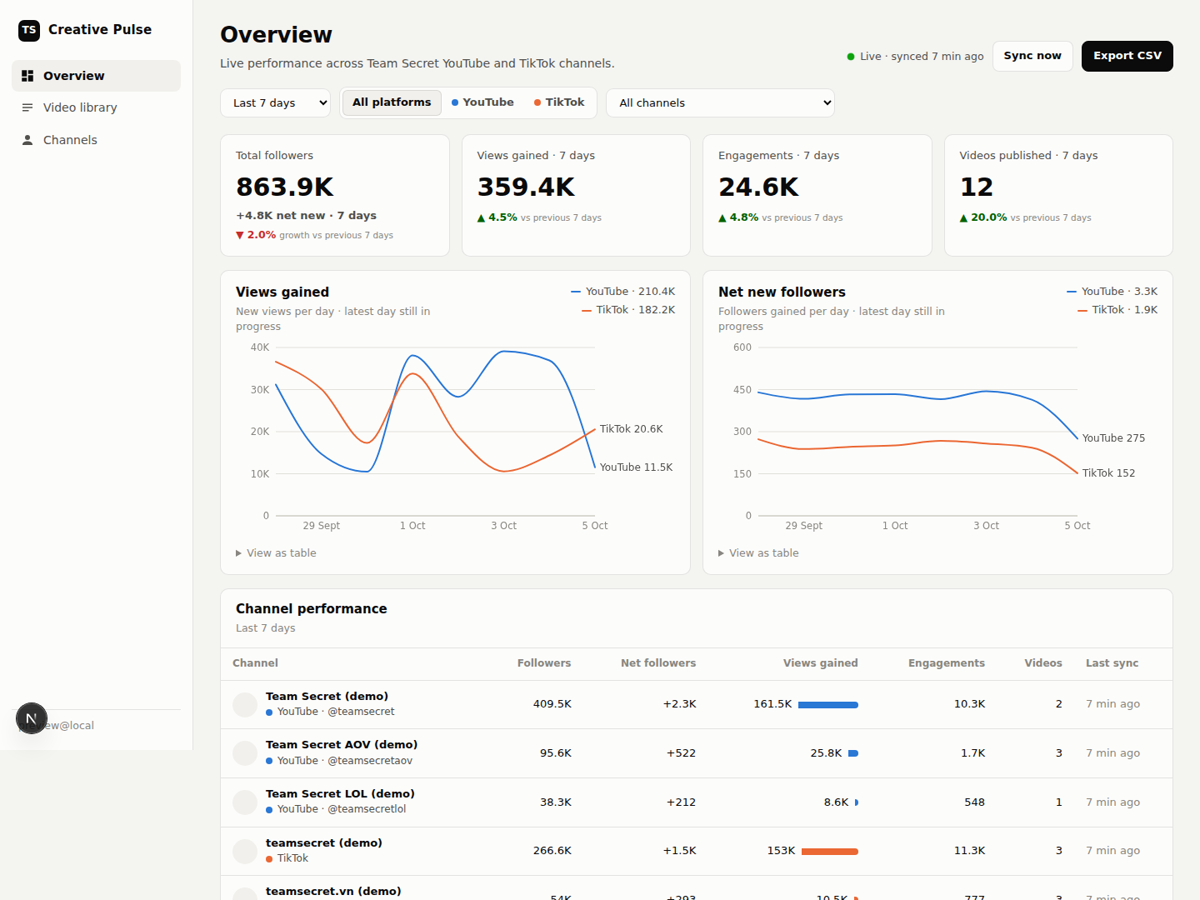
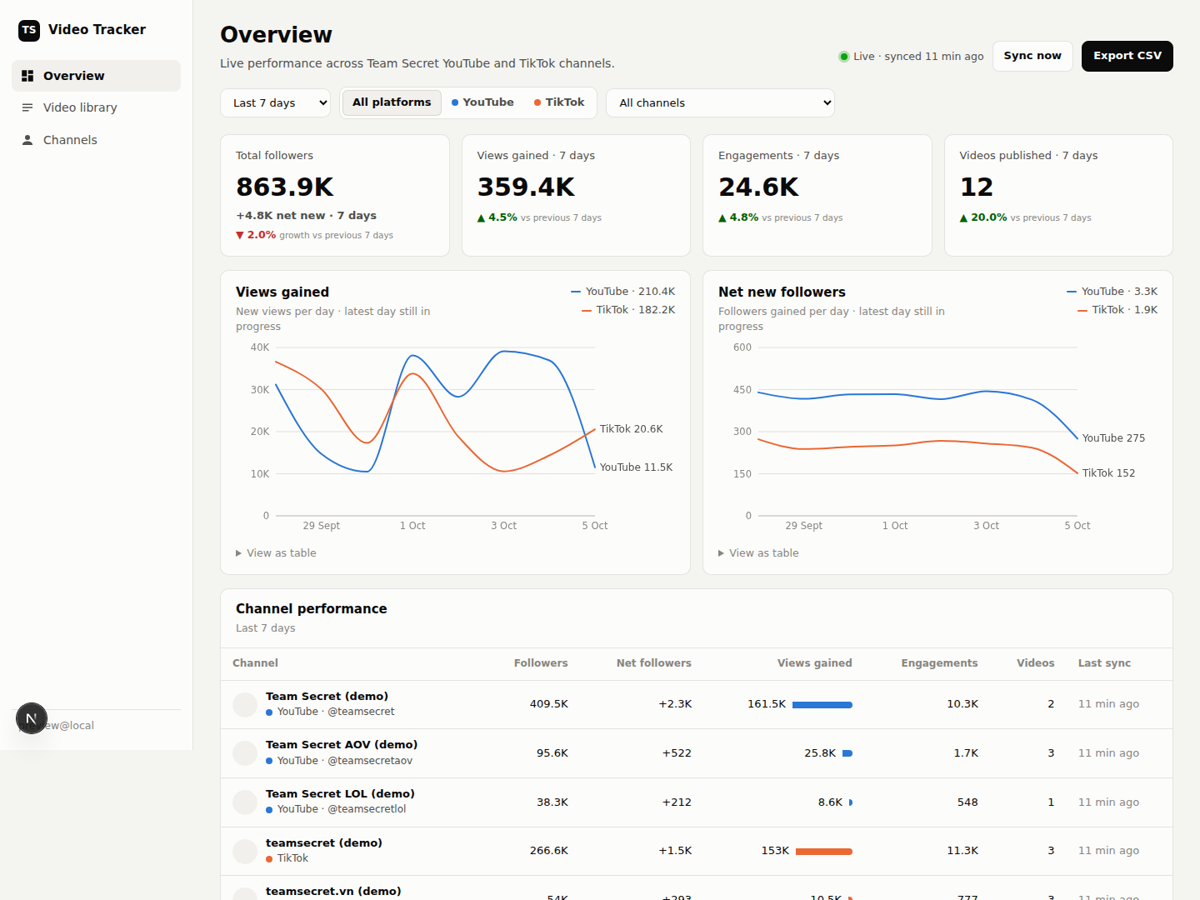
Rename the app to TS Video Tracker
Claude-Session: https://claude.ai/code/session_01NygvB3HVGLbNxM3hqHMViH

diff --git a/src/app/api/export/route.ts b/src/app/api/export/route.ts
@@ -11,7 +11,7 @@ export function GET(req: Request) {
     const f = parseFilters(new URL(req.url));
     const d = await getDashboard(await getDb(), f);
     const out = [
-      line([`TS Creative Pulse report`, `range ${f.range}`, `platform ${f.platform}`, `generated ${d.generatedAt}`]),
+      line([`TS Video Tracker report`, `range ${f.range}`, `platform ${f.platform}`, `generated ${d.generatedAt}`]),
       "",
       line(["Channel", "Platform", "Followers", "Followers gained", "Views gained", "Engagements gained", "Videos published"]),
       ...d.accounts.map((a) => line([a.title, a.platform, a.followers, a.followersGained, a.viewsGained, a.engagementsGained, a.videosPublished])),
@@ -22,7 +22,7 @@ export function GET(req: Request) {
     return new Response("" + out, {
       headers: {
         "content-type": "text/csv; charset=utf-8",
-        "content-disposition": `attachment; filename="ts-creative-pulse-${f.range}.csv"`,
+        "content-disposition": `attachment; filename="ts-video-tracker-${f.range}.csv"`,
       },
     });
   });

diff --git a/src/app/signin/page.tsx b/src/app/signin/page.tsx
@@ -2,7 +2,7 @@ import { redirect } from "next/navigation";
 import { currentUser, signIn } from "@/auth";
 
 export const dynamic = "force-dynamic";
-export const metadata = { title: "Sign in · TS Creative Pulse" };
+export const metadata = { title: "Sign in · TS Video Tracker" };
 
 export default async function SignIn({ searchParams }: { searchParams: Promise<{ error?: string }> }) {
   if (await currentUser()) redirect("/");
@@ -14,7 +14,7 @@ export default async function SignIn({ searchParams }: { searchParams: Promise<{
           <span className="brand-mark" aria-hidden>
             TS
           </span>
-          Creative Pulse
+          Video Tracker
         </div>
         <p className="muted" style={{ margin: 0 }}>
           Live YouTube and TikTok performance for the Team Secret creative team.

diff --git a/src/app/(app)/channels/page.tsx b/src/app/(app)/channels/page.tsx
@@ -1,6 +1,6 @@
 import { Channels } from "@/components/Channels";
 
-export const metadata = { title: "Channels · TS Creative Pulse" };
+export const metadata = { title: "Channels · TS Video Tracker" };
 
 export default async function Page({ searchParams }: { searchParams: Promise<Record<string, string | undefined>> }) {
   const sp = await searchParams;

diff --git a/src/app/(app)/layout.tsx b/src/app/(app)/layout.tsx
@@ -14,7 +14,7 @@ export default async function AppLayout({ children }: { children: React.ReactNod
           <span className="brand-mark" aria-hidden>
             TS
           </span>
-          Creative Pulse
+          Video Tracker
         </div>
         <Nav className="nav" />
         <div className="sidebar-foot">

diff --git a/src/app/layout.tsx b/src/app/layout.tsx
@@ -2,7 +2,7 @@ import type { Metadata } from "next";
 import "./globals.css";
 
 export const metadata: Metadata = {
-  title: "TS Creative Pulse",
+  title: "TS Video Tracker",
   description: "Live YouTube and TikTok performance for the Team Secret creative team.",
   robots: { index: false, follow: false },
 };

diff --git a/src/app/(app)/library/page.tsx b/src/app/(app)/library/page.tsx
@@ -1,6 +1,6 @@
 import { Library } from "@/components/Library";
 
-export const metadata = { title: "Video library · TS Creative Pulse" };
+export const metadata = { title: "Video library · TS Video Tracker" };
 
 export default function Page() {
   return <Library />;

diff --git a/README.md b/README.md
@@ -1,4 +1,4 @@
-# TS Creative Pulse
+# TS Video Tracker
 
 Live YouTube and TikTok performance for the Team Secret creative team: one place to see
 followers, views gained, engagements and top videos across every Team Secret channel,
